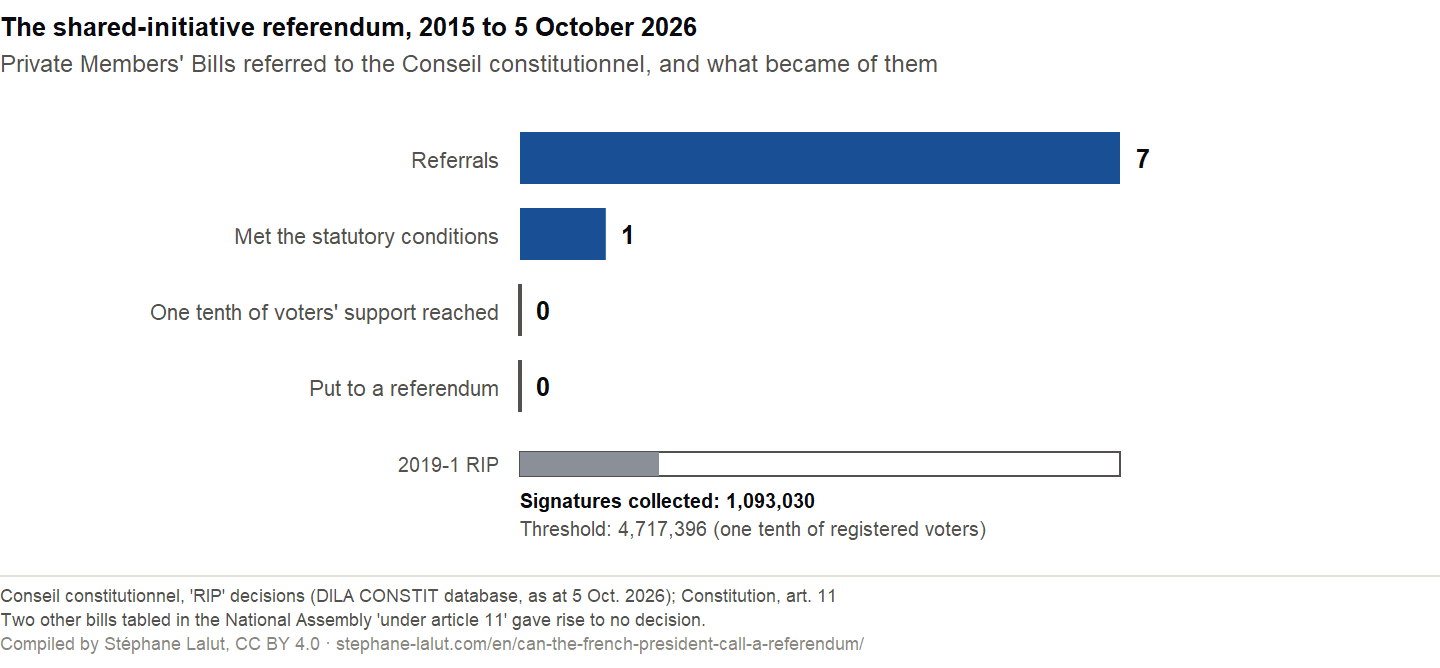
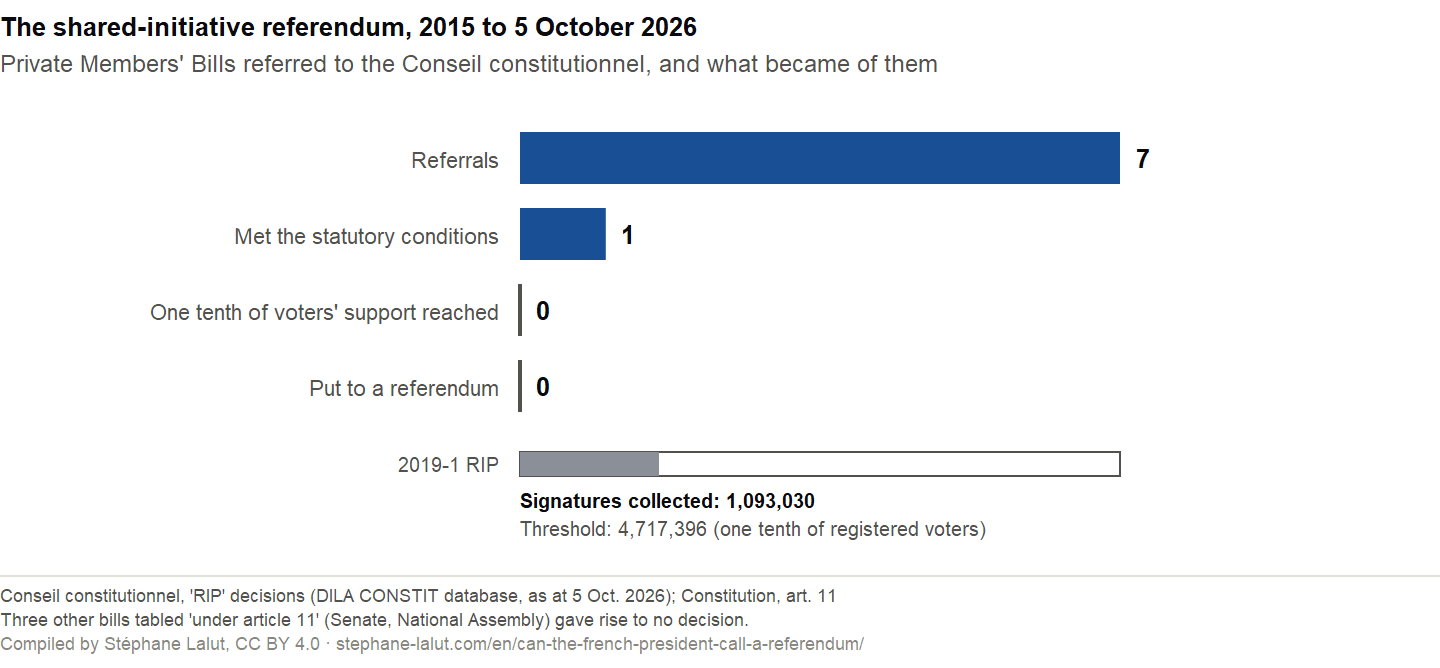
fix(promesses): Referendum -- depot senatorial n. 459 (2018) et auteurs des depots art. 11 ; garde R6 contre le temoin
Correction C1 (evaluation du 07/10, contre-expertise PRO-20261007-102607) : le temoin
n'interrogeait pas Dosleg ni la XIVe. Trois depots sans decision du Conseil (Senat 459,
AN 1749 et 5203), signes par deux, deux et un parlementaires ; la cause n'est pas ecrite.
Nombre et auteurs en jetons (FR, EN, note de figure) ; R6 arrete si la liste differe du
temoin, mutation vue mordre. hugo 0, check-all --ci 0.

Changed region(s): [[0.0, 0.8982, 0.5312, 0.9581]]

diff --git a/scripts/update_promesses_referendum.py b/scripts/update_promesses_referendum.py
@@ -108,11 +108,16 @@ OBJET = {
 }
 # Témoin de l'Assemblée nationale (test_decisif/referendum/test_r_e2.py) : dépôts « en application de l'article 11 »
 # sans décision du Conseil (décision de l'auteur, 06/10/2026 : dits au lecteur, sans cause).
+# Témoin du Sénat ajouté le 07/10/2026 (Dosleg, type « refe » ; EVALUATION_UNICITE_PUBLICS.md, C1) : ppl17-459.
+# Auteurs relus dans les textes déposés : n° 459 et n° 1749, un député et un sénateur ; n° 5203, un député.
 DEPOTS_SANS_SAISINE = [
-    {"numero": "1749", "legislature": "XVe", "date": "2019-03-06",
+    {"chambre": "Sénat", "numero": "459", "legislature": "2017-2018", "date": "2018-04-20", "auteurs": 2,
+     "objet": "renforcer le contrôle de l'immigration en France",
+     "objet_en": "strengthening immigration control in France"},
+    {"chambre": "AN", "numero": "1749", "legislature": "XVe", "date": "2019-03-06", "auteurs": 2,
      "objet": "mesures d'exception contre les djihadistes français ayant combattu en Irak et en Syrie",
      "objet_en": "exceptional measures against French jihadists who fought in Iraq and Syria"},
-    {"numero": "5203", "legislature": "XVe", "date": "2022-04-05",
+    {"chambre": "AN", "numero": "5203", "legislature": "XVe", "date": "2022-04-05", "auteurs": 1,
      "objet": "lutter contre les mauvais traitements envers les animaux",
      "objet_en": "combating the mistreatment of animals"},
 ]
@@ -360,7 +365,10 @@ def affichage(R, S, r) -> tuple[dict, dict]:
          "part_max": fr(max(part(l) for l in R), 1), "part_min": fr(min(part(l) for l in R), 1),
          "oui_1992": fr(100 * d["1992-09-20"]["oui"] / d["1992-09-20"]["exprimes"], 2),
          "non_1969": fr(100 * d["1969-04-27"]["non"] / d["1969-04-27"]["exprimes"], 2),
-         "depots_sans_saisine": "deux" if len(DEPOTS_SANS_SAISINE) == 2 else str(len(DEPOTS_SANS_SAISINE)),
+         "depots_sans_saisine": CHIFFRES_FR[len(DEPOTS_SANS_SAISINE)],
+         "depots_sans_saisine_maj": CHIFFRES_FR[len(DEPOTS_SANS_SAISINE)].capitalize(),
+         "depots_auteurs": ", ".join(CHIFFRES_FR[d["auteurs"]] for d in DEPOTS_SANS_SAISINE[:-1])
+                           + " et " + CHIFFRES_FR[DEPOTS_SANS_SAISINE[-1]["auteurs"]],
          "n_loi": CHIFFRES_FR[r["N"] - r["art89"]].capitalize(), "n_rev": "un seul" if r["art89"] == 1 else CHIFFRES_FR[r["art89"]],
          "part_min_an": min(R, key=part)["date_scrutin"][:4], "part_max_an": max(R, key=part)["date_scrutin"][:4],
          "non_conformes": CHIFFRES_FR[r["S"] - r["C"]], "cond2_maj": CHIFFRES_FR[r["cond2"]].capitalize(),
@@ -377,7 +385,10 @@ def affichage(R, S, r) -> tuple[dict, dict]:
          "part_max": "%.1f" % max(part(l) for l in R), "part_min": "%.1f" % min(part(l) for l in R),
          "oui_1992": "%.2f" % (100 * d["1992-09-20"]["oui"] / d["1992-09-20"]["exprimes"]),
          "non_1969": "%.2f" % (100 * d["1969-04-27"]["non"] / d["1969-04-27"]["exprimes"]),
-         "depots_sans_saisine": "two" if len(DEPOTS_SANS_SAISINE) == 2 else str(len(DEPOTS_SANS_SAISINE)),
+         "depots_sans_saisine": CHIFFRES_EN[len(DEPOTS_SANS_SAISINE)],
+         "depots_sans_saisine_maj": CHIFFRES_EN[len(DEPOTS_SANS_SAISINE)].capitalize(),
+         "depots_auteurs": ", ".join(CHIFFRES_EN[d["auteurs"]] for d in DEPOTS_SANS_SAISINE[:-1])
+                           + " and " + CHIFFRES_EN[DEPOTS_SANS_SAISINE[-1]["auteurs"]],
          "n_loi": CHIFFRES_EN[r["N"] - r["art89"]].capitalize(), "n_rev": "only one" if r["art89"] == 1 else CHIFFRES_EN[r["art89"]],
          "part_min_an": min(R, key=part)["date_scrutin"][:4], "part_max_an": max(R, key=part)["date_scrutin"][:4],
          "non_conformes": CHIFFRES_EN[r["S"] - r["C"]], "cond2_maj": CHIFFRES_EN[r["cond2"]].capitalize(),
@@ -463,7 +474,7 @@ T = {
            "t2": "Le référendum d'initiative partagée, de 2015 au {arrete}", "s2": "propositions de loi soumises au Conseil constitutionnel, et ce qu'elles sont devenues",
            "d2": "{S} saisines du Conseil constitutionnel ; {C} conforme ; {soutiens} soutiens recueillis pour {seuil} requis ; aucun référendum.",
            "src2": "Conseil constitutionnel, décisions « RIP » (stock CONSTIT, arrêté au 05/10/2026) ; Constitution, art. 11",
-           "note2": "Deux autres propositions déposées à l'Assemblée « en application de l'article 11 » n'ont fait l'objet d'aucune décision.",
+           "note2": "%s autres propositions déposées « en application de l'article 11 » (Sénat, Assemblée) n'ont fait l'objet d'aucune décision." % CHIFFRES_FR[len(DEPOTS_SANS_SAISINE)].capitalize(),
            "e1": "Saisines du Conseil", "e2": "Jugées conformes", "e3": "Soutien d'un dixième des inscrits réuni", "e4": "Soumises au référendum",
            "sout": "Soutiens recueillis : {soutiens}", "seuil": "Seuil : {seuil} (un dixième des inscrits)"},
     "en": {"t1": "National referendums in France since 1958", "s1": "date of the vote and share of 'yes' among valid votes, as at {arrete}",
@@ -475,7 +486,7 @@ T = {
            "t2": "The shared-initiative referendum, 2015 to {arrete}", "s2": "Private Members' Bills referred to the Conseil constitutionnel, and what became of them",
            "d2": "{S} referrals to the Conseil constitutionnel; {C} meeting the statutory conditions; {soutiens} signatures of support for {seuil} required; no referendum.",
            "src2": "Conseil constitutionnel, 'RIP' decisions (DILA CONSTIT database, as at 5 Oct. 2026); Constitution, art. 11",
-           "note2": "Two other bills tabled in the National Assembly 'under article 11' gave rise to no decision.",
+           "note2": "%s other bills tabled 'under article 11' (Senate, National Assembly) gave rise to no decision." % CHIFFRES_EN[len(DEPOTS_SANS_SAISINE)].capitalize(),
            "e1": "Referrals", "e2": "Met the statutory conditions", "e3": "One tenth of voters' support reached", "e4": "Put to a referendum",
            "sout": "Signatures collected: {soutiens}", "seuil": "Threshold: {seuil} (one tenth of registered voters)"},
 }
@@ -590,8 +601,11 @@ def csv_texte(R, S) -> str:
             w.writerow(["rip", n, s["date"], OBJET_RIP[n][0], "11 al. 3", "soutiens", s["soutiens"], "décision %s RIP" % s.get("declaration")])
             w.writerow(["rip", n, s["date"], OBJET_RIP[n][0], "11 al. 3", "seuil", s["seuil"], "décision %s RIP" % s.get("declaration")])
     for d in DEPOTS_SANS_SAISINE:
-        w.writerow(["depot_art11_sans_saisine", "AN %s %s" % (d["legislature"], d["numero"]), d["date"], d["objet"], "11 al. 3",
-                    "decision_du_conseil", "aucune", "Assemblée nationale, données ouvertes"])
+        src = "Sénat, base Dosleg" if d["chambre"] == "Sénat" else "Assemblée nationale, données ouvertes"
+        w.writerow(["depot_art11_sans_saisine", "%s %s %s" % (d["chambre"], d["legislature"], d["numero"]), d["date"], d["objet"],
+                    "11 al. 3", "decision_du_conseil", "aucune", src])
+        w.writerow(["depot_art11_sans_saisine", "%s %s %s" % (d["chambre"], d["legislature"], d["numero"]), d["date"], d["objet"],
+                    "11 al. 3", "auteurs", d["auteurs"], "texte déposé"])
     return buf.getvalue()
 
 
@@ -625,12 +639,36 @@ def main() -> int:
         return 1
 
 
+TEMOIN_RIP = PRO / "06_PROMOTION" / "RECHERCHE_DOSSIER_PROMESSES_2026-10-05" / "test_decisif" / "referendum" / "registre_rip.json"
+
+
+def verifier_depots(depots=None) -> str:
+    """R6 (07/10/2026) : la liste des dépôts « article 11 » sans décision est celle qu'a trouvée le témoin
+    (test_r_e2.py : Assemblée XIV à XVII, Dosleg type « refe »). Un écart dans un sens ou dans l'autre arrête."""
+    depots = DEPOTS_SANS_SAISINE if depots is None else depots
+    if not TEMOIN_RIP.exists():
+        raise Arret("R6 : sortie du témoin absente (%s) : lancer test_r_e2.py" % TEMOIN_RIP)
+    t = json.loads(TEMOIN_RIP.read_text(encoding="utf-8"))
+    vus = {("AN", re.sub(r"\D", "", d["uid"][-5:]).lstrip("0")) for d in t.get("depots_sans_saisine", [])}
+    vus |= {("Sénat", re.search(r"-(\d+)$", k).group(1)) for k in t.get("depots_senat_sans_decision", {})}
+    liste = {(d["chambre"], d["numero"]) for d in depots}
+    if liste != vus:
+        raise Arret("R6 : dépôts sans saisine, liste %s contre témoin %s" % (sorted(liste), sorted(vus)))
+    return "R6 : %d dépôts sans saisine, identiques au témoin (Assemblée et Sénat)" % len(liste)
+
+
 def _main() -> int:
     check = "--check" in sys.argv[1:]
     par_id = charger_constit()
     R, S = registre(par_id), rip(par_id)
     textes = {n: article_fr(n) for n in ARTICLES}
     g = gardes(R, S)
+    g.append(verifier_depots())
+    try:
+        verifier_depots(DEPOTS_SANS_SAISINE[1:])
+        raise RuntimeError("R6 : la mutation « dépôt retiré » n'a pas mordu")
+    except Arret:
+        log("autotest : la mutation a mordu : dépôt retiré -> R6")
     g += verifier_citations(textes, MOTIFS, S)
     g.append(verifier_2007_560(par_id))
     r = resultat(R, S)

diff --git a/content/un-president-peut-il-recourir-au-referendum/_index.en.md b/content/un-president-peut-il-recourir-au-referendum/_index.en.md
@@ -105,7 +105,7 @@ Since the 2008 constitutional amendment, another route exists, the shared-initia
 
 The other {{< ref-val "non_conformes" >}} bills did not meet the statutory conditions, for two reasons that the Conseil names itself. {{< ref-val "cond2_maj" >}} did not concern a subject of article 11: for retirement at 62, for instance, the bill «&nbsp;{{< ref-val "cit_motif_2023_4" >}}&nbsp;» (decision 2023-4 RIP; our translation: does not relate, within the meaning of Article 11 of the Constitution, to a "reform" concerning social policy). {{< ref-val "cond3_maj" >}} contained a provision contrary to the Constitution (2021-2 and 2024-6 RIP). The page does not assess these decisions; it reports their grounds.
 
-**Two other bills** are recorded by the National Assembly as «&nbsp;présentée en application de l'article 11 de la Constitution&nbsp;» (introduced under article 11 of the Constitution), No. 1749 (6 March 2019, measures against French jihadists who fought in Iraq and Syria) and No. 5203 (5 April 2022, mistreatment of animals); no decision of the Conseil constitutionnel was found for them in the register consulted. They are therefore not counted among the {{< ref-val "S" >}} referrals. The sources consulted do not establish what happened to them procedurally.
+**{{< ref-val "depots_sans_saisine_maj" >}} other bills** were tabled «&nbsp;en application de l'article 11&nbsp;» (under article 11) without any decision of the Conseil constitutionnel concerning them in the register consulted: in the Senate, No. 459 (20 April 2018, immigration control); in the National Assembly, No. 1749 (6 March 2019, measures against French jihadists who fought in Iraq and Syria) and No. 5203 (5 April 2022, mistreatment of animals). They bore the signatures of {{< ref-val "depots_auteurs" >}} members of Parliament, whereas article 11 provides for an initiative by one fifth of the members of Parliament. They are therefore not counted among the {{< ref-val "S" >}} referrals. The organic law provides that the bill is forwarded to the Conseil constitutionnel; the sources consulted do not establish what became of these texts.
 
 ## What a referendum decides, and what it does not {#ce-qu-il-decide}
 
